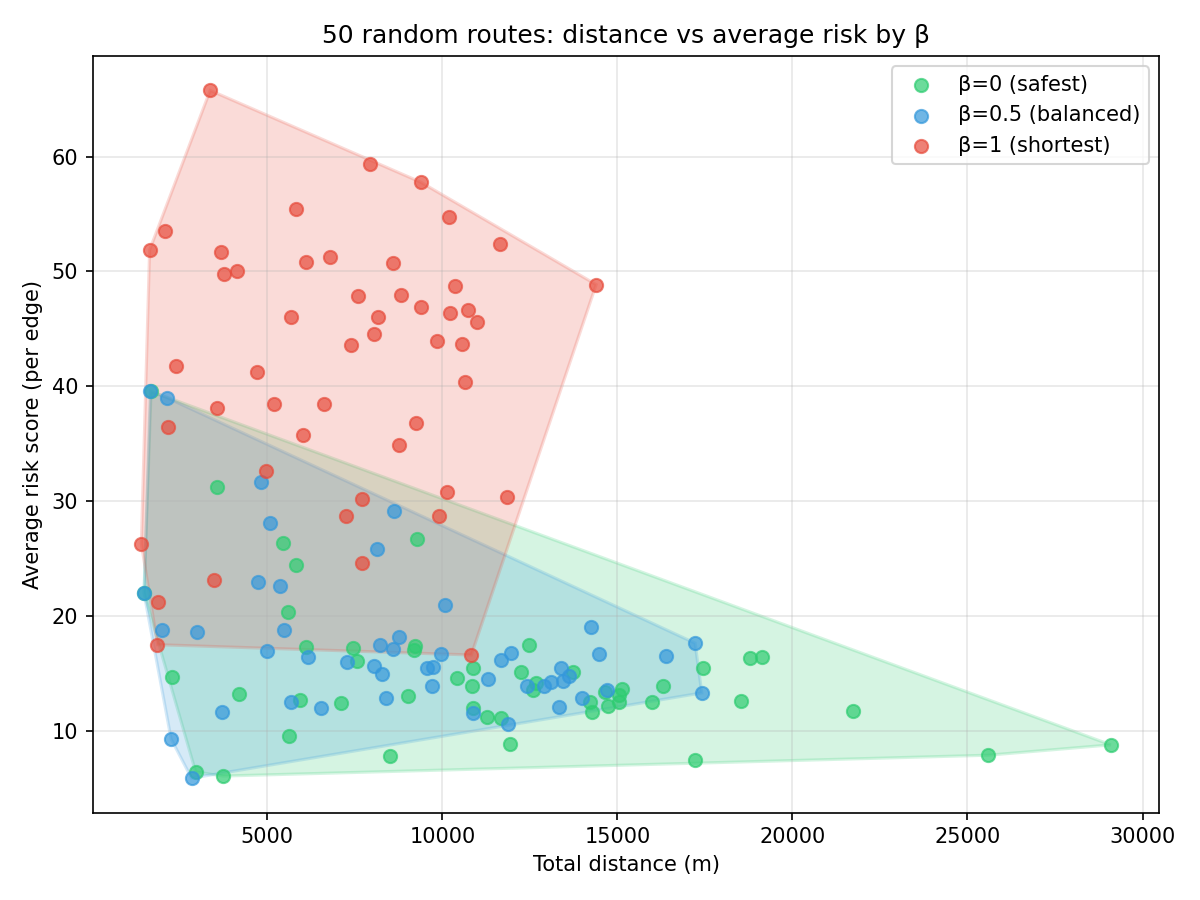
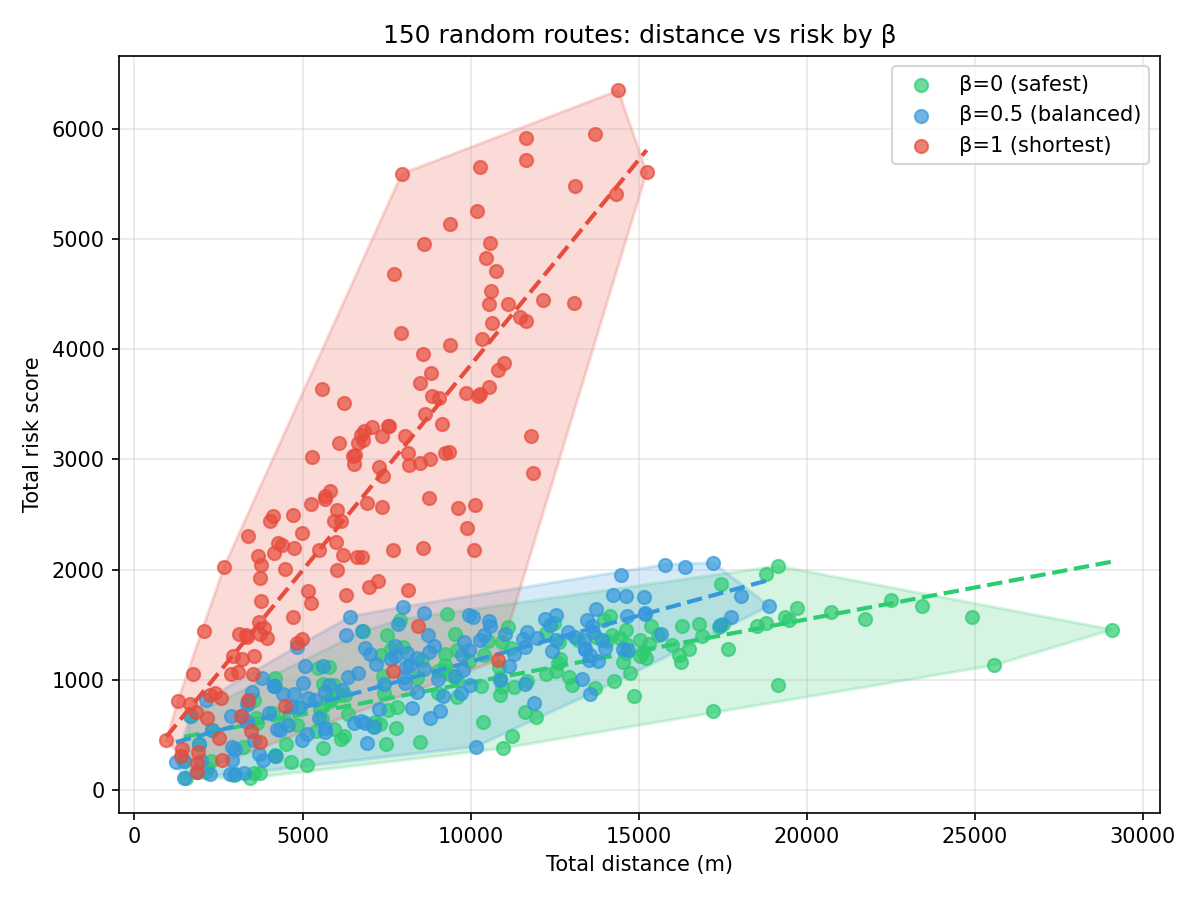
adjusted the script for random route results

diff --git a/algorithms/run_random_routes.py b/algorithms/run_random_routes.py
@@ -1,7 +1,8 @@
 """
-Run 50 random routes with beta=0, 0.5, and 1, then plot distance vs risk.
+Run random routes with beta=0, 0.5, and 1, then plot distance vs risk.
 
-Uses the same graph and edge scores as run_safety_routing.py.
+Prompts for: risk type (average/total), line of best fit, cluster highlighting,
+and number of routes. Uses the same graph and edge scores as run_safety_routing.py.
 """
 
 import random
@@ -20,7 +21,34 @@ from algorithms.run_safety_routing import (
 )
 
 
+def _prompt_choice(prompt: str, default: str = "") -> str:
+    """Return trimmed user input or default if empty."""
+    s = input(prompt).strip().lower() if sys.stdin.isatty() else default
+    return s or default
+
+
+def get_plot_options():
+    """Ask user for risk type, line of best fit, cluster highlighting, and n_routes."""
+    print("\n--- Plot options ---")
+    risk = _prompt_choice("Risk score: (a)verage or (t)otal? [a/t] (default: a): ", "a")
+    use_average_risk = risk != "t"
+    line_input = _prompt_choice("Show line of best fit? [y/n] (default: n): ", "n")
+    show_line = line_input in ("y", "yes")
+    cluster_input = _prompt_choice("Show cluster highlighting (convex hulls)? [y/n] (default: y): ", "y")
+    show_cluster = cluster_input in ("y", "yes")
+    n_input = _prompt_choice("Number of routes to test? (default: 50): ", "50")
+    try:
+        n_routes = max(1, int(n_input))
+    except ValueError:
+        n_routes = 50
+    return use_average_risk, show_line, show_cluster, n_routes
+
+
 def main():
+    use_average_risk, show_line, show_cluster, n_routes = get_plot_options()
+    risk_key = "average_risk_score" if use_average_risk else "total_risk_score"
+    risk_label = "Average risk score (per edge)" if use_average_risk else "Total risk score"
+
     project_root = Path(__file__).resolve().parent.parent
     graph_path = project_root / "data/graphs/sf_pedestrian_graph_enhanced.graphml"
     if not graph_path.exists():
@@ -52,8 +80,7 @@ def main():
         sys.exit(1)
 
     betas = [0.0, 0.5, 1.0]
-    n_routes = 50
-    results = []  # list of {beta, total_distance_m, average_risk_score, run_id}
+    results = []  # list of {beta, total_distance_m, average_risk_score, total_risk_score, run_id}
 
     random.seed(42)
     for run_id in range(n_routes):
@@ -67,6 +94,7 @@ def main():
                     "beta": beta,
                     "total_distance_m": r["total_distance_m"],
                     "average_risk_score": avg_risk,
+                    "total_risk_score": r["total_risk_score"],
                     "run_id": run_id,
                 })
 
@@ -88,34 +116,39 @@ def main():
     colors = {0.0: "#2ecc71", 0.5: "#3498db", 1.0: "#e74c3c"}
     labels = {0.0: "β=0 (safest)", 0.5: "β=0.5 (balanced)", 1.0: "β=1 (shortest)"}
 
-    # Draw cluster hulls first (behind points)
-    for beta in betas:
-        subset = [x for x in results if x["beta"] == beta]
-        if len(subset) < 3:
-            continue
-        pts = np.column_stack([
-            [x["total_distance_m"] for x in subset],
-            [x["average_risk_score"] for x in subset],
-        ])
-        try:
-            hull = ConvexHull(pts)
-            poly = Polygon(pts[hull.vertices], facecolor=colors[beta], edgecolor=colors[beta], alpha=0.2, linewidth=1.5)
-            ax.add_patch(poly)
-        except Exception:
-            pass
+    # Draw cluster hulls first (behind points), if requested
+    if show_cluster:
+        for beta in betas:
+            subset = [x for x in results if x["beta"] == beta]
+            if len(subset) < 3:
+                continue
+            pts = np.column_stack([
+                [x["total_distance_m"] for x in subset],
+                [x[risk_key] for x in subset],
+            ])
+            try:
+                hull = ConvexHull(pts)
+                poly = Polygon(pts[hull.vertices], facecolor=colors[beta], edgecolor=colors[beta], alpha=0.2, linewidth=1.5)
+                ax.add_patch(poly)
+            except Exception:
+                pass
 
-    # Then scatter points on top
+    # Scatter points (and optionally line of best fit) per beta
     for beta in betas:
         subset = [x for x in results if x["beta"] == beta]
         if not subset:
             continue
         dist = np.array([x["total_distance_m"] for x in subset])
-        risk = np.array([x["average_risk_score"] for x in subset])
+        risk = np.array([x[risk_key] for x in subset])
         ax.scatter(dist, risk, c=colors[beta], label=labels[beta], alpha=0.7, s=40, zorder=2)
+        if show_line and len(dist) > 1:
+            coefs = np.polyfit(dist, risk, 1)
+            x_line = np.linspace(dist.min(), dist.max(), 100)
+            ax.plot(x_line, np.polyval(coefs, x_line), c=colors[beta], linestyle="--", linewidth=2)
 
     ax.set_xlabel("Total distance (m)")
-    ax.set_ylabel("Average risk score (per edge)")
-    ax.set_title("50 random routes: distance vs average risk by β")
+    ax.set_ylabel(risk_label)
+    ax.set_title(f"{n_routes} random routes: distance vs risk by β")
     ax.legend()
     ax.grid(True, alpha=0.3)
     plt.tight_layout()
